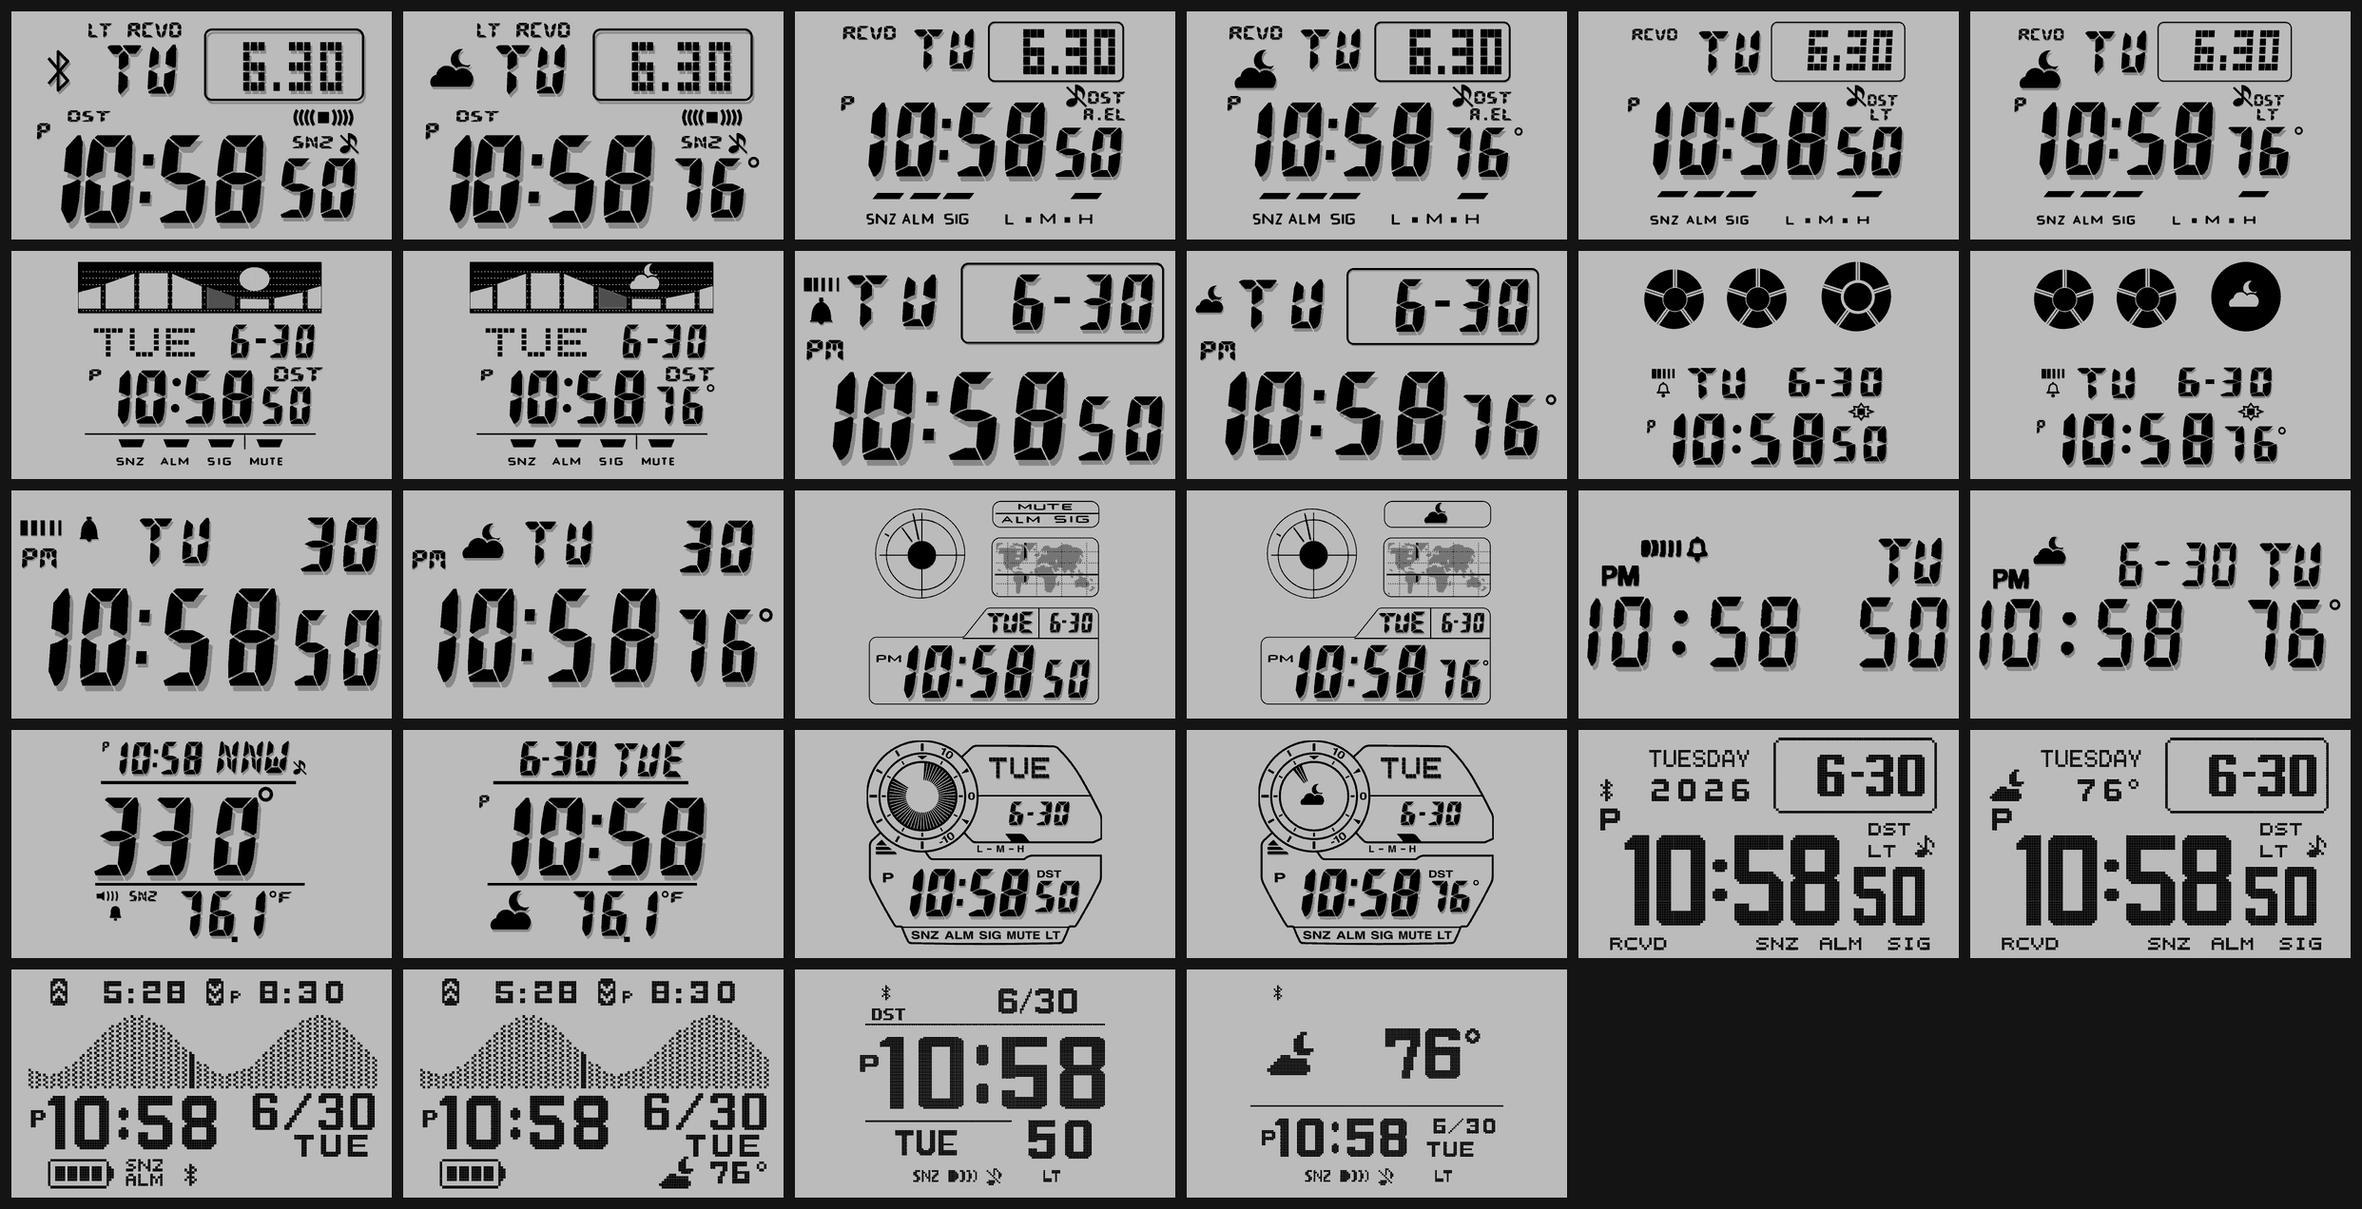
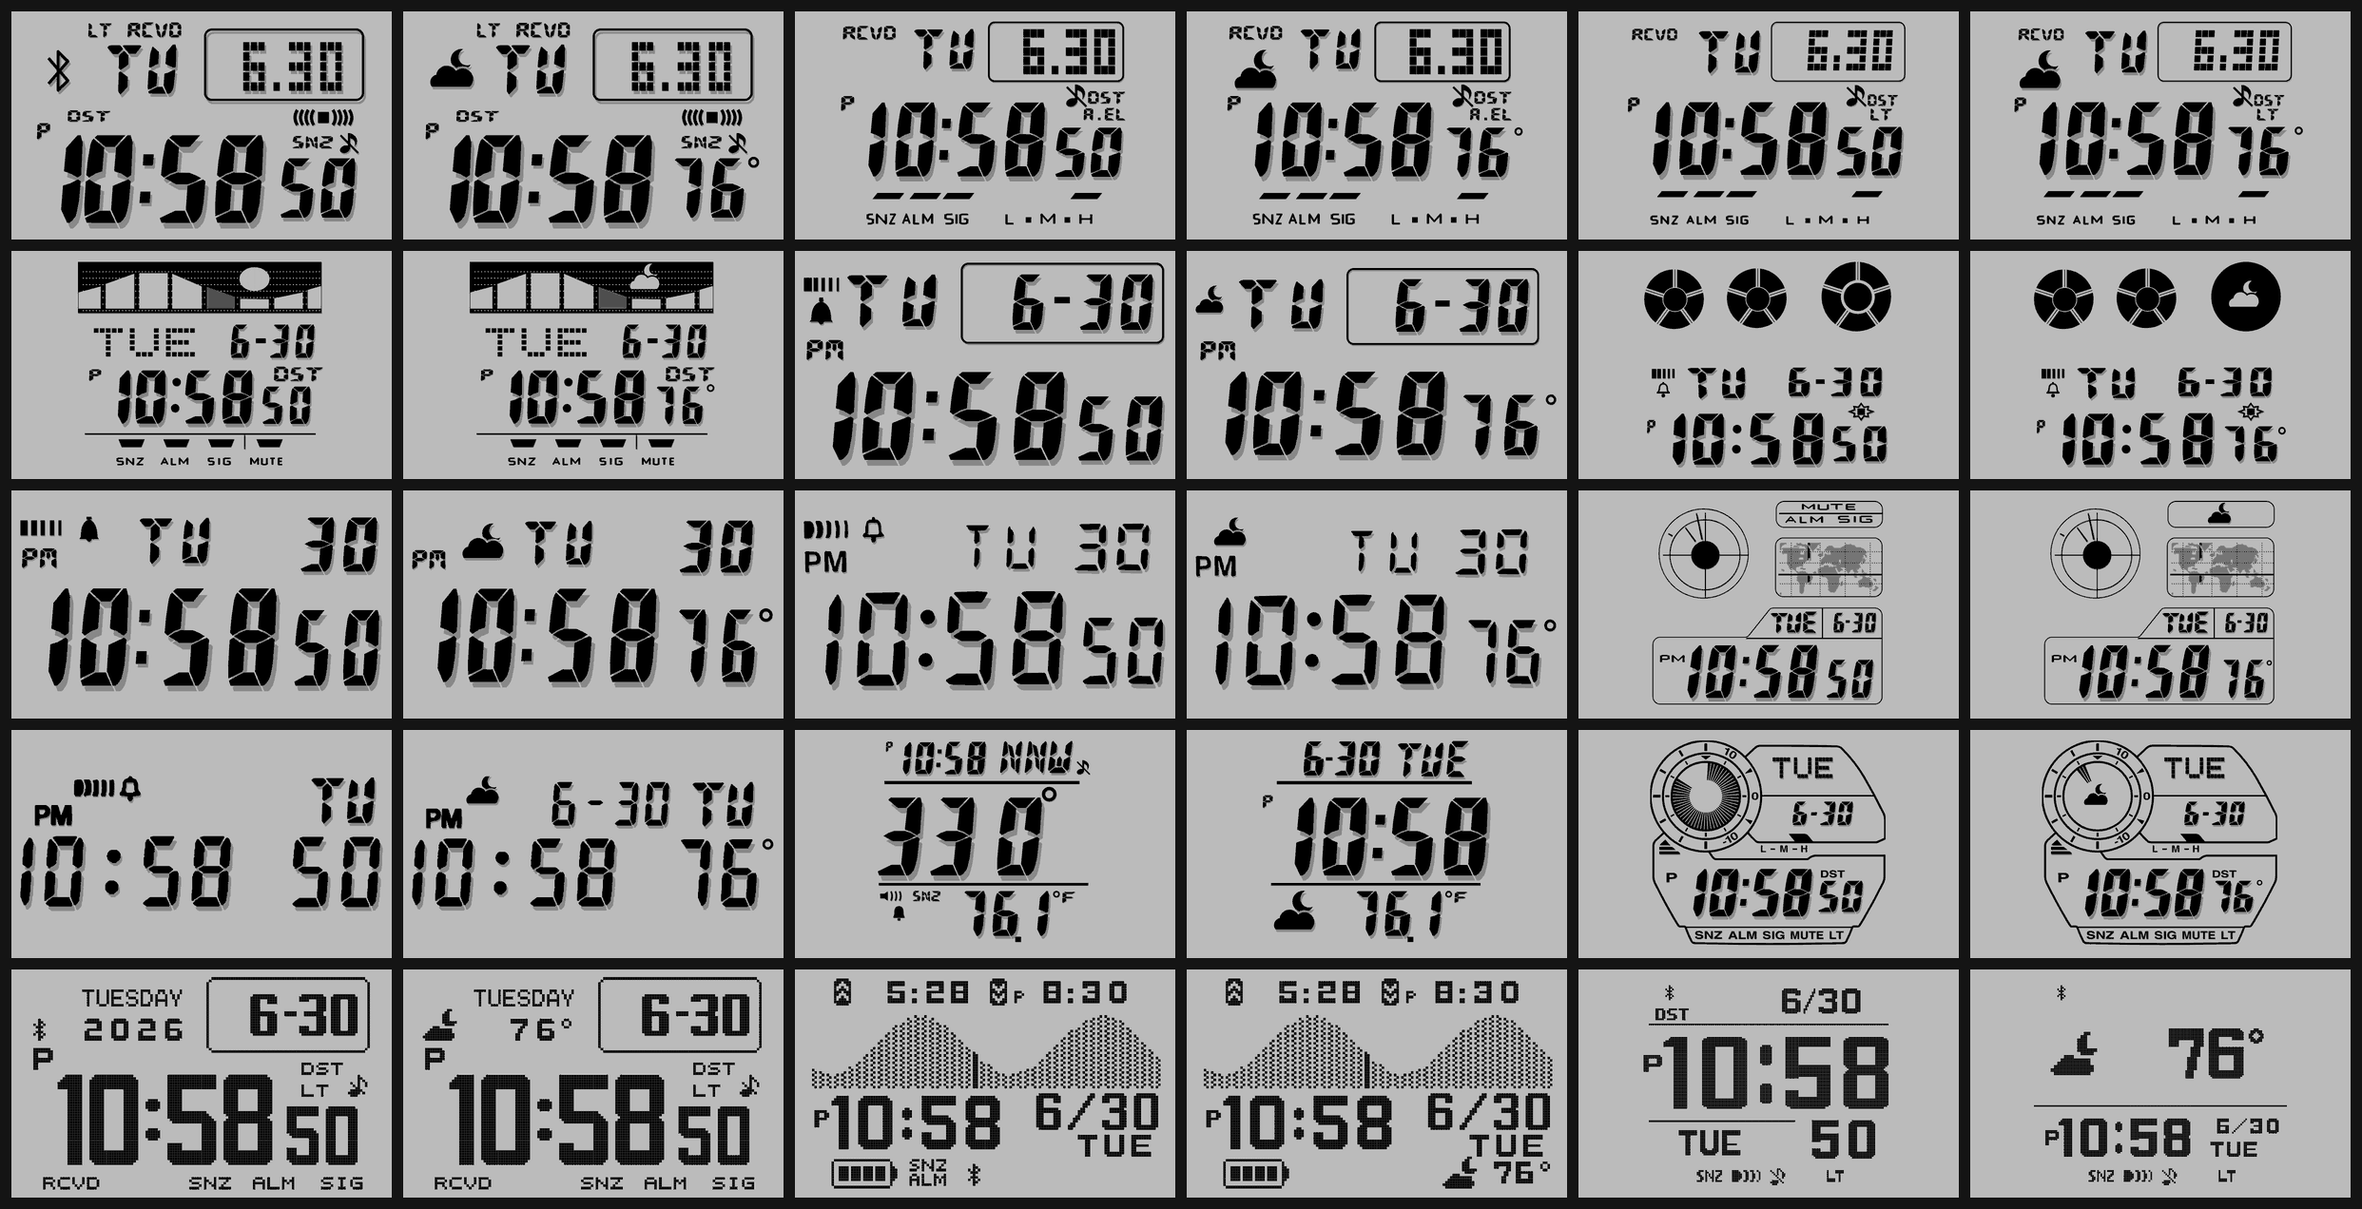
3298
Claude-Session: https://claude.ai/code/session_01WrLPH9CSGwuJCbw1xzJHza

Changed region(s): [[0.0, 0.3986, 1.0, 1.0]]

diff --git a/index.html b/index.html
@@ -38,7 +38,7 @@ no analog-digital ones. Switch Weather on to see each watch's
 weather face (TRMNL), which adds the weather in the watch's own style.</p>
 <figure class="sheet" data-lcd="all-faces.png" data-inv="all-faces-inverted.png"><img class="all" src="all-faces.png" alt="Every LCD Watch face" width="2484" height="1272"></figure>
 <div class="switches"><div class="toggle" role="group" aria-label="Display"><button type="button" data-key="display" data-value="lcd">LCD</button><button type="button" data-key="display" data-value="inv">Inverted</button></div><div class="toggle" role="group" aria-label="Weather"><button type="button" data-key="weather" data-value="off">No weather</button><button type="button" data-key="weather" data-value="on">Weather</button></div></div>
-<div class="grid"><figure data-lcd="screens/watch-3459.png" data-inv="screens/watch-3459-inverted.png" data-label="3459 · Modern square (2018)" data-wlcd="screens/watch-3459-TRMNL.png" data-winv="screens/watch-3459-TRMNL-inverted.png" data-wlabel="3459-TRMNL · Modern square with weather"><img src="screens/watch-3459.png" alt="3459 · Modern square (2018)" loading="lazy" width="400" height="240"><figcaption><span class="label">3459 · Modern square (2018)</span></figcaption></figure><figure data-lcd="screens/watch-3159.png" data-inv="screens/watch-3159-inverted.png" data-label="3159 · Solar square (2012)" data-wlcd="screens/watch-3159-TRMNL.png" data-winv="screens/watch-3159-TRMNL-inverted.png" data-wlabel="3159-TRMNL · Solar square with weather"><img src="screens/watch-3159.png" alt="3159 · Solar square (2012)" loading="lazy" width="400" height="240"><figcaption><span class="label">3159 · Solar square (2012)</span></figcaption></figure><figure data-lcd="screens/watch-3495.png" data-inv="screens/watch-3495-inverted.png" data-label="3495 · Solar square, six languages (2021)" data-wlcd="screens/watch-3495-TRMNL.png" data-winv="screens/watch-3495-TRMNL-inverted.png" data-wlabel="3495-TRMNL · Solar square, six languages, with weather"><img src="screens/watch-3495.png" alt="3495 · Solar square, six languages (2021)" loading="lazy" width="400" height="240"><figcaption><span class="label">3495 · Solar square, six languages (2021)</span></figcaption></figure><figure data-lcd="screens/watch-3559.png" data-inv="screens/watch-3559-inverted.png" data-label="3559 · Surf, tide and moon (2023)" data-wlcd="screens/watch-3559-TRMNL.png" data-winv="screens/watch-3559-TRMNL-inverted.png" data-wlabel="3559-TRMNL · Surf, tide and weather"><img src="screens/watch-3559.png" alt="3559 · Surf, tide and moon (2023)" loading="lazy" width="400" height="240"><figcaption><span class="label">3559 · Surf, tide and moon (2023)</span></figcaption></figure><figure data-lcd="screens/watch-3229.png" data-inv="screens/watch-3229-inverted.png" data-label="3229 · Classic square (2010)" data-wlcd="screens/watch-3229-TRMNL.png" data-winv="screens/watch-3229-TRMNL-inverted.png" data-wlabel="3229-TRMNL · Classic square with weather"><img src="screens/watch-3229.png" alt="3229 · Classic square (2010)" loading="lazy" width="400" height="240"><figcaption><span class="label">3229 · Classic square (2010)</span></figcaption></figure><figure data-lcd="screens/watch-3529.png" data-inv="screens/watch-3529-inverted.png" data-label="3529 · Round, three eyes (2023)" data-wlcd="screens/watch-3529-TRMNL.png" data-winv="screens/watch-3529-TRMNL-inverted.png" data-wlabel="3529-TRMNL · Round, three eyes, with weather"><img src="screens/watch-3529.png" alt="3529 · Round, three eyes (2023)" loading="lazy" width="400" height="240"><figcaption><span class="label">3529 · Round, three eyes (2023)</span></figcaption></figure><figure data-lcd="screens/watch-593.png" data-inv="screens/watch-593-inverted.png" data-label="593 · Slim retro (1989)" data-wlcd="screens/watch-593-TRMNL.png" data-winv="screens/watch-593-TRMNL-inverted.png" data-wlabel="593-TRMNL · Slim retro with weather"><img src="screens/watch-593.png" alt="593 · Slim retro (1989)" loading="lazy" width="400" height="240"><figcaption><span class="label">593 · Slim retro (1989)</span></figcaption></figure><figure data-lcd="screens/watch-3299.png" data-inv="screens/watch-3299-inverted.png" data-label="3299 · World time with map (2012)" data-wlcd="screens/watch-3299-TRMNL.png" data-winv="screens/watch-3299-TRMNL-inverted.png" data-wlabel="3299-TRMNL · World time with map and weather"><img src="screens/watch-3299.png" alt="3299 · World time with map (2012)" loading="lazy" width="400" height="240"><figcaption><span class="label">3299 · World time with map (2012)</span></figcaption></figure><figure data-lcd="screens/watch-3208.png" data-inv="screens/watch-3208-inverted.png" data-label="3208 · Calculator (1988)" data-wlcd="screens/watch-3208-TRMNL.png" data-winv="screens/watch-3208-TRMNL-inverted.png" data-wlabel="3208-TRMNL · Calculator with weather"><img src="screens/watch-3208.png" alt="3208 · Calculator (1988)" loading="lazy" width="400" height="240"><figcaption><span class="label">3208 · Calculator (1988)</span></figcaption></figure><figure data-lcd="screens/watch-3157.png" data-inv="screens/watch-3157-inverted.png" data-label="3157 · Outdoor, compass and thermometer (2008)" data-wlcd="screens/watch-3157-TRMNL.png" data-winv="screens/watch-3157-TRMNL-inverted.png" data-wlabel="3157-TRMNL · Outdoor, date, time and weather"><img src="screens/watch-3157.png" alt="3157 · Outdoor, compass and thermometer (2008)" loading="lazy" width="400" height="240"><figcaption><span class="label">3157 · Outdoor, compass and thermometer (2008)</span></figcaption></figure><figure data-lcd="screens/watch-3410.png" data-inv="screens/watch-3410-inverted.png" data-label="3410 · Triple sensor, graphic dial (2013)" data-wlcd="screens/watch-3410-TRMNL.png" data-winv="screens/watch-3410-TRMNL-inverted.png" data-wlabel="3410-TRMNL · Triple sensor, weather in the dial"><img src="screens/watch-3410.png" alt="3410 · Triple sensor, graphic dial (2013)" loading="lazy" width="400" height="240"><figcaption><span class="label">3410 · Triple sensor, graphic dial (2013)</span></figcaption></figure><figure data-lcd="screens/watch-3575.png" data-inv="screens/watch-3575-inverted.png" data-label="3575 / 3578 · Dot matrix (2025)" data-wlcd="screens/type-c-weather.png" data-winv="screens/type-c-weather-inverted.png" data-wlabel="3575 / 3578 · Dot matrix (2025), Weather on"><img src="screens/watch-3575.png" alt="3575 / 3578 · Dot matrix (2025)" loading="lazy" width="400" height="240"><figcaption><span class="label">3575 / 3578 · Dot matrix (2025)</span></figcaption></figure><figure data-lcd="screens/watch-3586.png" data-inv="screens/watch-3586-inverted.png" data-label="3586 · Dot matrix, tide and sun (2026)" data-wlcd="screens/watch-3586-TRMNL.png" data-winv="screens/watch-3586-TRMNL-inverted.png" data-wlabel="3586-TRMNL · Dot matrix, tide and weather"><img src="screens/watch-3586.png" alt="3586 · Dot matrix, tide and sun (2026)" loading="lazy" width="400" height="240"><figcaption><span class="label">3586 · Dot matrix, tide and sun (2026)</span></figcaption></figure><figure data-lcd="screens/watch-3506.png" data-inv="screens/watch-3506-inverted.png" data-label="3506 · Dot matrix, sport square (2021)" data-wlcd="screens/watch-3506-TRMNL.png" data-winv="screens/watch-3506-TRMNL-inverted.png" data-wlabel="3506-TRMNL · Dot matrix, sport square with weather"><img src="screens/watch-3506.png" alt="3506 · Dot matrix, sport square (2021)" loading="lazy" width="400" height="240"><figcaption><span class="label">3506 · Dot matrix, sport square (2021)</span></figcaption></figure></div>
+<div class="grid"><figure data-lcd="screens/watch-3459.png" data-inv="screens/watch-3459-inverted.png" data-label="3459 · Modern square (2018)" data-wlcd="screens/watch-3459-TRMNL.png" data-winv="screens/watch-3459-TRMNL-inverted.png" data-wlabel="3459-TRMNL · Modern square with weather"><img src="screens/watch-3459.png" alt="3459 · Modern square (2018)" loading="lazy" width="400" height="240"><figcaption><span class="label">3459 · Modern square (2018)</span></figcaption></figure><figure data-lcd="screens/watch-3159.png" data-inv="screens/watch-3159-inverted.png" data-label="3159 · Solar square (2012)" data-wlcd="screens/watch-3159-TRMNL.png" data-winv="screens/watch-3159-TRMNL-inverted.png" data-wlabel="3159-TRMNL · Solar square with weather"><img src="screens/watch-3159.png" alt="3159 · Solar square (2012)" loading="lazy" width="400" height="240"><figcaption><span class="label">3159 · Solar square (2012)</span></figcaption></figure><figure data-lcd="screens/watch-3495.png" data-inv="screens/watch-3495-inverted.png" data-label="3495 · Solar square, six languages (2021)" data-wlcd="screens/watch-3495-TRMNL.png" data-winv="screens/watch-3495-TRMNL-inverted.png" data-wlabel="3495-TRMNL · Solar square, six languages, with weather"><img src="screens/watch-3495.png" alt="3495 · Solar square, six languages (2021)" loading="lazy" width="400" height="240"><figcaption><span class="label">3495 · Solar square, six languages (2021)</span></figcaption></figure><figure data-lcd="screens/watch-3559.png" data-inv="screens/watch-3559-inverted.png" data-label="3559 · Surf, tide and moon (2023)" data-wlcd="screens/watch-3559-TRMNL.png" data-winv="screens/watch-3559-TRMNL-inverted.png" data-wlabel="3559-TRMNL · Surf, tide and weather"><img src="screens/watch-3559.png" alt="3559 · Surf, tide and moon (2023)" loading="lazy" width="400" height="240"><figcaption><span class="label">3559 · Surf, tide and moon (2023)</span></figcaption></figure><figure data-lcd="screens/watch-3229.png" data-inv="screens/watch-3229-inverted.png" data-label="3229 · Classic square (2010)" data-wlcd="screens/watch-3229-TRMNL.png" data-winv="screens/watch-3229-TRMNL-inverted.png" data-wlabel="3229-TRMNL · Classic square with weather"><img src="screens/watch-3229.png" alt="3229 · Classic square (2010)" loading="lazy" width="400" height="240"><figcaption><span class="label">3229 · Classic square (2010)</span></figcaption></figure><figure data-lcd="screens/watch-3529.png" data-inv="screens/watch-3529-inverted.png" data-label="3529 · Round, three eyes (2023)" data-wlcd="screens/watch-3529-TRMNL.png" data-winv="screens/watch-3529-TRMNL-inverted.png" data-wlabel="3529-TRMNL · Round, three eyes, with weather"><img src="screens/watch-3529.png" alt="3529 · Round, three eyes (2023)" loading="lazy" width="400" height="240"><figcaption><span class="label">3529 · Round, three eyes (2023)</span></figcaption></figure><figure data-lcd="screens/watch-593.png" data-inv="screens/watch-593-inverted.png" data-label="593 · Slim retro (1989)" data-wlcd="screens/watch-593-TRMNL.png" data-winv="screens/watch-593-TRMNL-inverted.png" data-wlabel="593-TRMNL · Slim retro with weather"><img src="screens/watch-593.png" alt="593 · Slim retro (1989)" loading="lazy" width="400" height="240"><figcaption><span class="label">593 · Slim retro (1989)</span></figcaption></figure><figure data-lcd="screens/watch-3298.png" data-inv="screens/watch-3298-inverted.png" data-label="3298 · Retro steel square (2012)" data-wlcd="screens/watch-3298-TRMNL.png" data-winv="screens/watch-3298-TRMNL-inverted.png" data-wlabel="3298-TRMNL · Retro steel square with weather"><img src="screens/watch-3298.png" alt="3298 · Retro steel square (2012)" loading="lazy" width="400" height="240"><figcaption><span class="label">3298 · Retro steel square (2012)</span></figcaption></figure><figure data-lcd="screens/watch-3299.png" data-inv="screens/watch-3299-inverted.png" data-label="3299 · World time with map (2012)" data-wlcd="screens/watch-3299-TRMNL.png" data-winv="screens/watch-3299-TRMNL-inverted.png" data-wlabel="3299-TRMNL · World time with map and weather"><img src="screens/watch-3299.png" alt="3299 · World time with map (2012)" loading="lazy" width="400" height="240"><figcaption><span class="label">3299 · World time with map (2012)</span></figcaption></figure><figure data-lcd="screens/watch-3208.png" data-inv="screens/watch-3208-inverted.png" data-label="3208 · Calculator (1988)" data-wlcd="screens/watch-3208-TRMNL.png" data-winv="screens/watch-3208-TRMNL-inverted.png" data-wlabel="3208-TRMNL · Calculator with weather"><img src="screens/watch-3208.png" alt="3208 · Calculator (1988)" loading="lazy" width="400" height="240"><figcaption><span class="label">3208 · Calculator (1988)</span></figcaption></figure><figure data-lcd="screens/watch-3157.png" data-inv="screens/watch-3157-inverted.png" data-label="3157 · Outdoor, compass and thermometer (2008)" data-wlcd="screens/watch-3157-TRMNL.png" data-winv="screens/watch-3157-TRMNL-inverted.png" data-wlabel="3157-TRMNL · Outdoor, date, time and weather"><img src="screens/watch-3157.png" alt="3157 · Outdoor, compass and thermometer (2008)" loading="lazy" width="400" height="240"><figcaption><span class="label">3157 · Outdoor, compass and thermometer (2008)</span></figcaption></figure><figure data-lcd="screens/watch-3410.png" data-inv="screens/watch-3410-inverted.png" data-label="3410 · Triple sensor, graphic dial (2013)" data-wlcd="screens/watch-3410-TRMNL.png" data-winv="screens/watch-3410-TRMNL-inverted.png" data-wlabel="3410-TRMNL · Triple sensor, weather in the dial"><img src="screens/watch-3410.png" alt="3410 · Triple sensor, graphic dial (2013)" loading="lazy" width="400" height="240"><figcaption><span class="label">3410 · Triple sensor, graphic dial (2013)</span></figcaption></figure><figure data-lcd="screens/watch-3575.png" data-inv="screens/watch-3575-inverted.png" data-label="3575 / 3578 · Dot matrix (2025)" data-wlcd="screens/type-c-weather.png" data-winv="screens/type-c-weather-inverted.png" data-wlabel="3575 / 3578 · Dot matrix (2025), Weather on"><img src="screens/watch-3575.png" alt="3575 / 3578 · Dot matrix (2025)" loading="lazy" width="400" height="240"><figcaption><span class="label">3575 / 3578 · Dot matrix (2025)</span></figcaption></figure><figure data-lcd="screens/watch-3586.png" data-inv="screens/watch-3586-inverted.png" data-label="3586 · Dot matrix, tide and sun (2026)" data-wlcd="screens/watch-3586-TRMNL.png" data-winv="screens/watch-3586-TRMNL-inverted.png" data-wlabel="3586-TRMNL · Dot matrix, tide and weather"><img src="screens/watch-3586.png" alt="3586 · Dot matrix, tide and sun (2026)" loading="lazy" width="400" height="240"><figcaption><span class="label">3586 · Dot matrix, tide and sun (2026)</span></figcaption></figure><figure data-lcd="screens/watch-3506.png" data-inv="screens/watch-3506-inverted.png" data-label="3506 · Dot matrix, sport square (2021)" data-wlcd="screens/watch-3506-TRMNL.png" data-winv="screens/watch-3506-TRMNL-inverted.png" data-wlabel="3506-TRMNL · Dot matrix, sport square with weather"><img src="screens/watch-3506.png" alt="3506 · Dot matrix, sport square (2021)" loading="lazy" width="400" height="240"><figcaption><span class="label">3506 · Dot matrix, sport square (2021)</span></figcaption></figure></div>
 <h2>Display</h2>
 <p>How the screen is drawn, on any face.</p>
 <div class="grid"><figure data-lcd="screens/display-lcd.png" data-inv="screens/display-lcd.png" data-label="LCD (light gray)" data-wlcd="screens/display-lcd-weather.png" data-winv="screens/display-lcd-weather.png" data-wlabel="LCD (light gray), with weather"><img src="screens/display-lcd.png" alt="LCD (light gray)" loading="lazy" width="400" height="240"><figcaption><span class="label">LCD (light gray)</span></figcaption></figure><figure data-lcd="screens/display-paper.png" data-inv="screens/display-paper.png" data-label="White" data-wlcd="screens/display-paper-weather.png" data-winv="screens/display-paper-weather.png" data-wlabel="White, with weather"><img src="screens/display-paper.png" alt="White" loading="lazy" width="400" height="240"><figcaption><span class="label">White</span></figcaption></figure><figure data-lcd="screens/display-inverted.png" data-inv="screens/display-inverted.png" data-label="Dark, gray digits" data-wlcd="screens/display-inverted-weather.png" data-winv="screens/display-inverted-weather.png" data-wlabel="Dark, gray digits, with weather"><img src="screens/display-inverted.png" alt="Dark, gray digits" loading="lazy" width="400" height="240"><figcaption><span class="label">Dark, gray digits</span></figcaption></figure><figure data-lcd="screens/display-inverted_white.png" data-inv="screens/display-inverted_white.png" data-label="Dark, white digits" data-wlcd="screens/display-inverted_white-weather.png" data-winv="screens/display-inverted_white-weather.png" data-wlabel="Dark, white digits, with weather"><img src="screens/display-inverted_white.png" alt="Dark, white digits" loading="lazy" width="400" height="240"><figcaption><span class="label">Dark, white digits</span></figcaption></figure></div>
